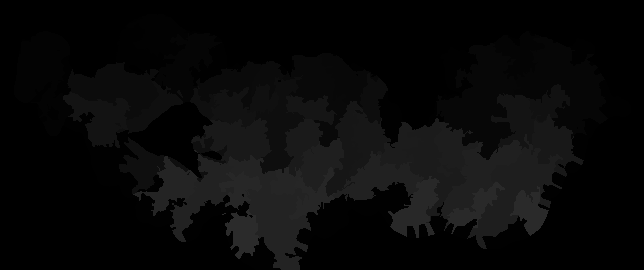
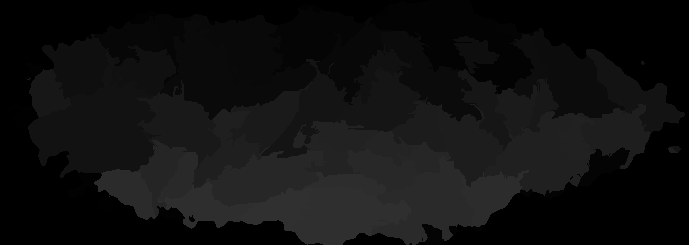
Démo : emmental, cheddar et viandes tirés des photos reçues
- Emmental râpé (photo) posé dans le pain, qui tombe par poignées
  (71 morceaux) avant le four ; remplace la pluie de brins dessinés.
- Nappage des frites cheddar : texture du cheddar gratiné (photo).
- Kebab et tandoori du sandwich tirés des photos ; poulet et curry par
  décalage de teinte du tandoori (provisoires).
- tools/photos/demo/photos_recues.py ; morceaux.py : découpe plus fine
  pour le fromage râpé.

Claude-Session: https://claude.ai/code/session_01XqZ93PNWpQXHMrW7uRtFj4

diff --git a/src/photo/PhotoAssembly.tsx b/src/photo/PhotoAssembly.tsx
@@ -10,7 +10,6 @@ import type { LayerId, Menu } from "../data/menu.types.ts";
 import type { AssemblySpec, BuildItem } from "../domain/resolveBuild.ts";
 import { Steam } from "../scene/Steam.tsx";
 import { usePresence, type Present } from "../scene/usePresence.ts";
-import { CheeseRain } from "./CheeseRain.tsx";
 import { PhotoLayer } from "./PhotoLayer.tsx";
 import { piecesDuration } from "./PiecesDrop.tsx";
 import { photoInfo } from "./manifest.ts";
@@ -72,13 +71,12 @@ function GratinRun({ avant, apres, label, color, phase, delay, reduced, order }:
   if (reduced || !hasAvant) {
     return <PhotoLayer {...common} file={hasApres ? apres.file : avant.file} fallbackCm={apres.sizeCm} y={3.2} order={order + 1} enter="fade" delay={reduced ? 0 : delay} />;
   }
-  const [w, h] = photoInfo(apres.file) ? [photoInfo(apres.file)!.wCm, photoInfo(apres.file)!.hCm] : apres.sizeCm;
-  // Rapide : la pluie d'emmental, puis on arrive vite sur la vraie photo du gratiné.
-  const oven = delay + 0.85;
+  // L'emmental râpé (vraie photo) tombe morceau par morceau, puis le four : fondu vers la photo « après ».
+  const fall = arrival(avant.file, reduced);
+  const oven = delay + fall + 0.1;
   return (
     <group>
-      <CheeseRain rx={w * 0.36} rz={h * 0.27} y={3.4} order={(order + 3) * 2} delay={delay} spread={0.6} fadeAt={0.95} phase={phase} />
-      <PhotoLayer {...common} file={avant.file} fallbackCm={avant.sizeCm} y={3} order={order} mode="dissolve" duration={0.7} delay={delay + 0.15} />
+      <PhotoLayer {...common} file={avant.file} fallbackCm={avant.sizeCm} y={3} order={order} enter="drop" delay={delay} />
       {hasApres && <PhotoLayer {...common} file={apres.file} fallbackCm={apres.sizeCm} y={3.2} order={order + 1} mode="dissolve" duration={0.8} delay={oven} glow />}
       {phase === "enter" && <OvenSteam delay={oven + 0.2} />}
     </group>

diff --git a/src/scene/textures.ts b/src/scene/textures.ts
@@ -201,22 +201,3 @@ export const newspaperTexture = () =>
       ctx.fillRect(x - s, y - s, s * 2, s * 2);
     }
   });
-
-/** Brin d'emmental râpé (pluie de fromage) : blanc, teinté par instance. */
-export const cheeseShred = () =>
-  make("cheese-shred", 128, 32, (ctx, w, h) => {
-    ctx.lineCap = "round";
-    ctx.lineWidth = h * 0.42;
-    ctx.strokeStyle = "#FFFFFF";
-    ctx.beginPath();
-    ctx.moveTo(h * 0.3, h * 0.55);
-    ctx.quadraticCurveTo(w / 2, h * 0.25, w - h * 0.3, h * 0.5);
-    ctx.stroke();
-    // léger modelé : bord inférieur plus sombre
-    ctx.globalCompositeOperation = "source-atop";
-    const g = ctx.createLinearGradient(0, 0, 0, h);
-    g.addColorStop(0, "rgba(255,255,255,0)");
-    g.addColorStop(1, "rgba(150,120,60,0.45)");
-    ctx.fillStyle = g;
-    ctx.fillRect(0, 0, w, h);
-  });

diff --git a/tools/photos/demo/photos_recues.py b/tools/photos/demo/photos_recues.py
@@ -1,0 +1,78 @@
+"""Images de démo tirées des photos reçues (plateaux inox) :
+
+- gratin-fromage__avant : l'emmental râpé de la photo, posé dans le pain (au cadrage de « après ») ;
+- nappage-cheddar__sur-frites : le cheddar gratiné de la photo, en nappe et coulures sur les paysannes ;
+- kebab, tandoori, poulet, curry : portions « dans le pain » découpées dans les photos de viande.
+
+À lancer après frites.py (il réécrit le nappage) :  python3 photos_recues.py
+"""
+import cv2
+import numpy as np
+
+from commun import PX, blur, load, ndi, noise, save
+from frites import cheddar_mask, crop_alpha, handful, resize
+from plateaux import cutout
+
+
+def texture(name, box=(330, 330, 1230, 780)):
+    """Cœur du tas, sans bord ni plateau : une texture pleine (RGB)."""
+    c = cutout(name, sat=0.25, sat_tex=0.15)
+    x0, y0, x1, y1 = box
+    return c[y0:y1, x0:x1, :3]
+
+
+def emmental_avant():
+    apres = load("gratin-fromage__apres")
+    h, w = apres.shape[:2]
+    alpha = blur(np.clip((blur(apres[..., 3], 6) - 0.5) * 4 + 0.5, 0, 1), 1.2)
+    dist = ndi.distance_transform_edt(alpha > 0.5)
+    tex = cv2.resize(texture("emmental"), (w, h), interpolation=cv2.INTER_AREA)
+    lum = tex.mean(-1)
+    # Dans le pain, avec un bord effiloché : près du bord, seuls les brins (clairs) restent.
+    zone = np.clip((dist - 12 - noise(h, w, 20, 3, seed=41) * 14) / 10, 0, 1)
+    strands = np.clip((lum - 0.72) / 0.12, 0, 1)
+    a = np.clip(zone * 1.6 - (1 - strands) * np.clip(1 - (dist - 12) / 40, 0, 1), 0, 1)
+    a = blur(a, 0.6)
+    # Ombre douce sous le fromage (il repose sur la garniture).
+    save("gratin-fromage__avant", np.dstack([tex, a]), crop=False, synthese=False)
+
+
+def cheddar_nappe():
+    fries = load("frites-paysannes")
+    h, w = fries.shape[:2]
+    m = cheddar_mask(fries)
+    tex = cv2.resize(texture("cheddar", (250, 300, 1300, 800)), (w, h), interpolation=cv2.INTER_AREA)
+    # Bord un peu plus foncé (épaisseur), le reste tel quel : c'est la vraie photo.
+    edge = np.clip(1 - m * 1.3, 0, 1)
+    tex = tex * (1 - 0.22 * edge)[..., None]
+    save("nappage-cheddar__sur-frites", np.dstack([tex, m * 0.98]), crop=False, synthese=False)
+
+
+def shift(p, hue_deg, sat, val=1.0):
+    """Décale la teinte (garde les nuances et le grillé de la photo)."""
+    rgb = (np.clip(p[..., :3], 0, 1) * 255).astype(np.uint8)
+    hsv = cv2.cvtColor(rgb, cv2.COLOR_RGB2HSV).astype(np.float32)
+    hsv[..., 0] = (hsv[..., 0] + hue_deg / 2) % 180
+    hsv[..., 1] = np.clip(hsv[..., 1] * sat, 0, 255)
+    hsv[..., 2] = np.clip(hsv[..., 2] * val, 0, 255)
+    out = cv2.cvtColor(hsv.astype(np.uint8), cv2.COLOR_HSV2RGB).astype(np.float32) / 255
+    return np.dstack([out, p[..., 3]])
+
+
+def portion(src, name, recolor=None, seed=1):
+    """Portion en long qui remplit le pain ouvert (≈ 23 × 8 cm), prise au cœur du tas."""
+    pile = crop_alpha(cutout(src))
+    ppc = pile.shape[1] * 0.9 / 23  # px source par cm pour que la portion tienne dans le tas
+    p = handful(pile, 23, 8.2, ppc, seed)
+    if recolor:
+        p = shift(p, *recolor)
+    save(name, resize(p, p.shape[1] * PX / ppc, p.shape[0] * PX / ppc), synthese=bool(recolor))
+
+
+if __name__ == "__main__":
+    emmental_avant()
+    cheddar_nappe()
+    portion("viande", "kebab", seed=2)
+    portion("tandoori", "tandoori", seed=3)
+    portion("tandoori", "poulet", (22, 0.62, 1.02), seed=4)
+    portion("tandoori", "curry", (24, 1.05, 1.02), seed=5)

diff --git a/tools/photos/demo/frites.py b/tools/photos/demo/frites.py
@@ -44,12 +44,40 @@ def handful(img, w_cm, h_cm, px_per_cm, seed):
     yy, xx = np.mgrid[0:hh, 0:ww].astype(np.float32)
     ang = np.arctan2(yy - hh / 2, xx - ww / 2)
     r = np.hypot((xx - ww / 2) / (ww / 2), (yy - hh / 2) / (hh / 2))
-    wob = 0.85 + 0.1 * np.sin(ang * 3 + seed) + 0.06 * np.sin(ang * 7 + seed * 2) + (noise(hh, ww, 25, 2, seed=seed) - 0.5) * 0.18
+    wob = 0.93 + 0.06 * np.sin(ang * 3 + seed) + 0.06 * np.sin(ang * 7 + seed * 2) + (noise(hh, ww, 25, 2, seed=seed) - 0.5) * 0.18
     blob = np.clip((wob - r) / 0.06, 0, 1)
     sub[..., 3] *= blob
     edge = np.clip(1 - (wob - r) / 0.25, 0, 1) * blob
     sub[..., :3] *= (1 - 0.25 * edge)[..., None]
     return sub
+
+
+def cheddar_mask(fries):
+    """Forme du nappage : une large nappe et des coulures arrondies, seulement sur les frites."""
+    h, w = fries.shape[:2]
+    S = 2
+    H, W = h * S, w * S
+    yy, xx = np.mgrid[0:H, 0:W].astype(np.float32)
+    cy = H * 0.5
+    nx, ny = (xx - W / 2) / (W / 2), (yy - cy) / (H / 2)
+    ang = np.arctan2(ny, nx)
+    r = np.hypot(nx, ny)
+    wob = 0.6 + 0.07 * np.sin(ang * 4 + 1) + 0.05 * np.sin(ang * 7 + 2) + (noise(H, W, 50, 3, seed=31) - 0.5) * 0.2
+    m = np.clip((wob - r) / 0.025, 0, 1)
+    # coulures : langues arrondies qui descendent entre les frites
+    for k in range(8):
+        a = rng.uniform(0, 2 * np.pi)
+        L = rng.uniform(0.12, 0.28)
+        wd = rng.uniform(0.06, 0.1)
+        for t in np.linspace(0.5, 0.55 + L, 40):
+            px = W / 2 + np.cos(a) * t * W / 2
+            py = cy + np.sin(a) * t * H / 2
+            rr = wd * W / 2 * (0.75 + 0.25 * np.cos((t - 0.5) / (L + 0.05) * np.pi / 2))
+            m = np.maximum(m, np.clip((rr - np.hypot(xx - px, yy - py)) / 3, 0, 1))
+    fa = cv2.resize(fries[..., 3], (W, H))
+    m *= np.clip(fa * 1.5, 0, 1)
+    m = blur(m, 1.5)
+    return cv2.resize(m, (w, h), interpolation=cv2.INTER_AREA)
 
 
 def cheddar_over(fries):

diff --git a/tools/photos/morceaux.py b/tools/photos/morceaux.py
@@ -22,12 +22,14 @@ ROOT = Path(__file__).resolve().parents[2]
 PHOTOS = ROOT / "public/photos"
 MANIFEST = ROOT / "src/data/photos.json"
 
-# Ce qui tombe en morceaux (les sauces se dessinent, le fromage fond, le pain et les tranches restent entiers).
-EXCLUDE_PREFIX = ("gratin-fromage", "nappage-", "pain-", "tortilla")
+# Ce qui tombe en morceaux (les sauces se dessinent, le fromage râpé tombe puis fond, le pain reste entier).
+EXCLUDE_PREFIX = ("gratin-fromage__apres", "nappage-", "pain-", "tortilla")
 EXCLUDE = {"ketchup", "mayonnaise", "sauce-blanche", "barbecue", "biggy", "algerienne", "harissa", "samourai", "oeuf", "cheddar", "escalope"}
 
 
 # Aliments faits d'éléments entiers (tranches, lanières, saucisses) : un morceau = un élément.
+# Découpe plus fine (fromage râpé : de petites poignées de brins).
+FINE = {"gratin-fromage__avant": (60, 260)}
 WHOLE = {"tomate", "bacon", "merguez", "jambon-dinde", "pastrami", "tenders", "boursin"}
 
 
@@ -46,7 +48,8 @@ def cut(name, info):
         labels, _ = ndi.label(img[..., 3] > 0.92)  # sans les ombres, qui relient les éléments
     else:
         # Segmentation par graphe : les frontières passent par les ombres entre les morceaux.
-        labels = felzenszwalb(rgb, scale=160, sigma=0.7, min_size=max(100, int(mask.sum() / 160))) + 1
+        scale, div = FINE.get(name, (160, 160))
+        labels = felzenszwalb(rgb, scale=scale, sigma=0.7, min_size=max(60, int(mask.sum() / div))) + 1
         labels[~mask] = 0
     # Les pixels semi-transparents du bord rejoignent le morceau voisin (pas de liseré oublié).
     edge = (img[..., 3] > 0.02) & (labels == 0)

diff --git a/docs/etape-2-configurateur.md b/docs/etape-2-configurateur.md
@@ -13,6 +13,13 @@ Pour montrer le rendu au client avant la séance photo, le configurateur tourne 
 |---|---|
 | ![](captures/4-demo-gratine.jpg) | ![](captures/5-demo-frites-garnies.jpg) |
 
+### Mise à jour : vos photos d'emmental, de cheddar et de viandes
+
+Ces images viennent de vos photos, détourées de leur plateau (`tools/photos/demo/photos_recues.py`) :
+- **Gratiné :** la viande tombe dans le pain, puis **l'emmental râpé de votre photo** tombe par petites poignées (71 morceaux) ; le four le transforme ensuite en votre photo du gratiné. Il remplace les brins dessinés.
+- **Frites cheddar :** le nappage est **le cheddar gratiné de votre photo**, découpé en nappe et en coulures sur les paysannes.
+- **Viandes du sandwich :** le kebab et le tandoori sont pris dans vos photos, en portion allongée qui remplit le pain. Le poulet et le curry sont la même photo de tandoori, avec la teinte décalée. Ce sont des approximations, à remplacer par de vraies photos.
+
 ### Mise à jour : des aliments qui tombent morceau par morceau
 
 Pour éviter l'effet « photo posée d'un bloc », chaque photo d'aliment est **découpée en ses morceaux**, en suivant ses contours : les ombres entre les frites, entre les morceaux de viande.
